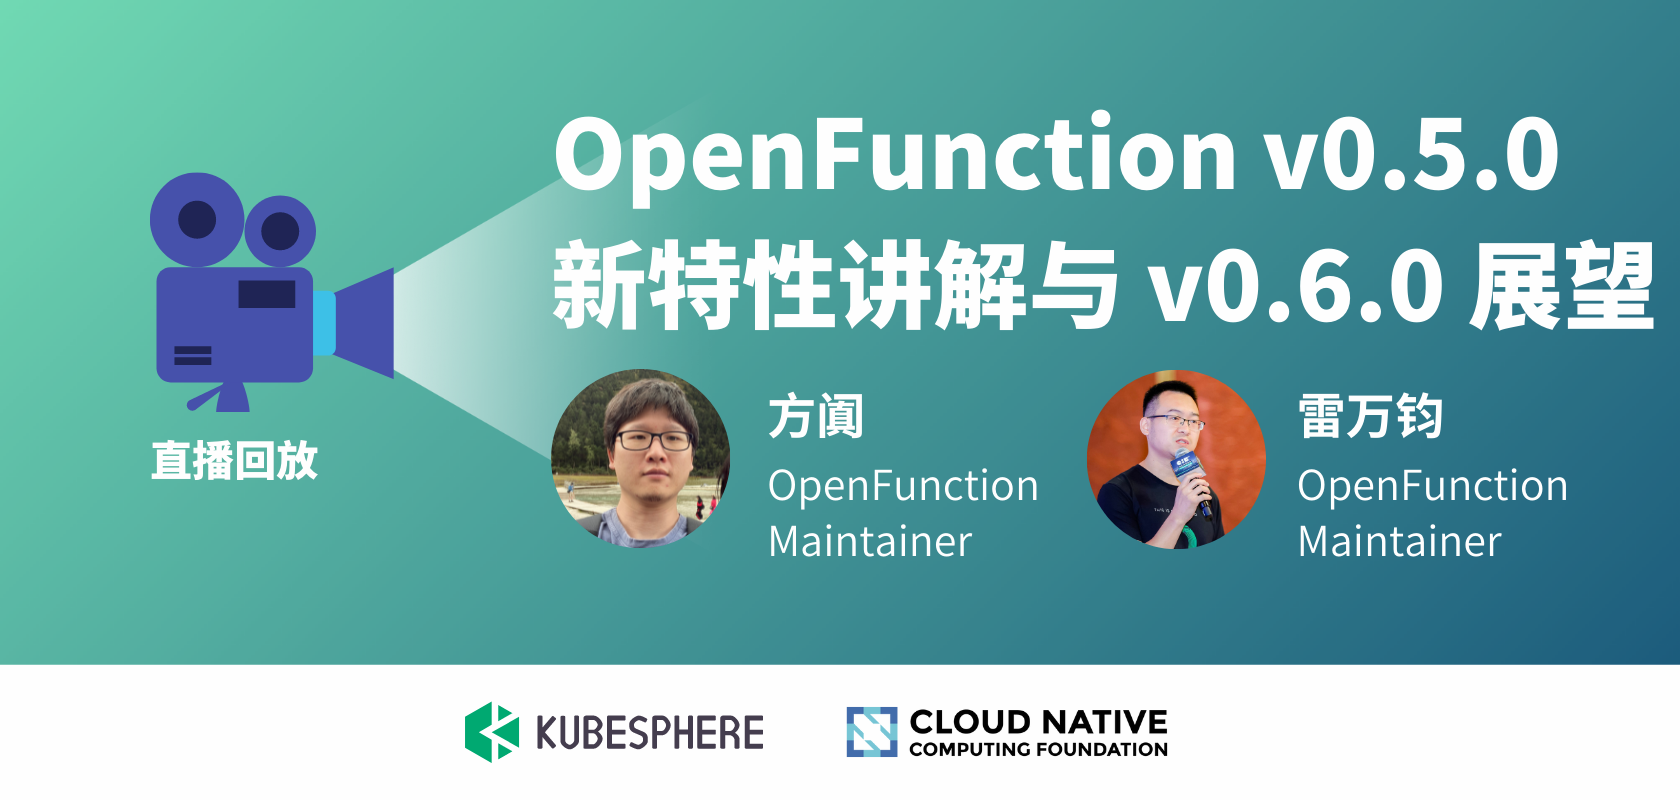
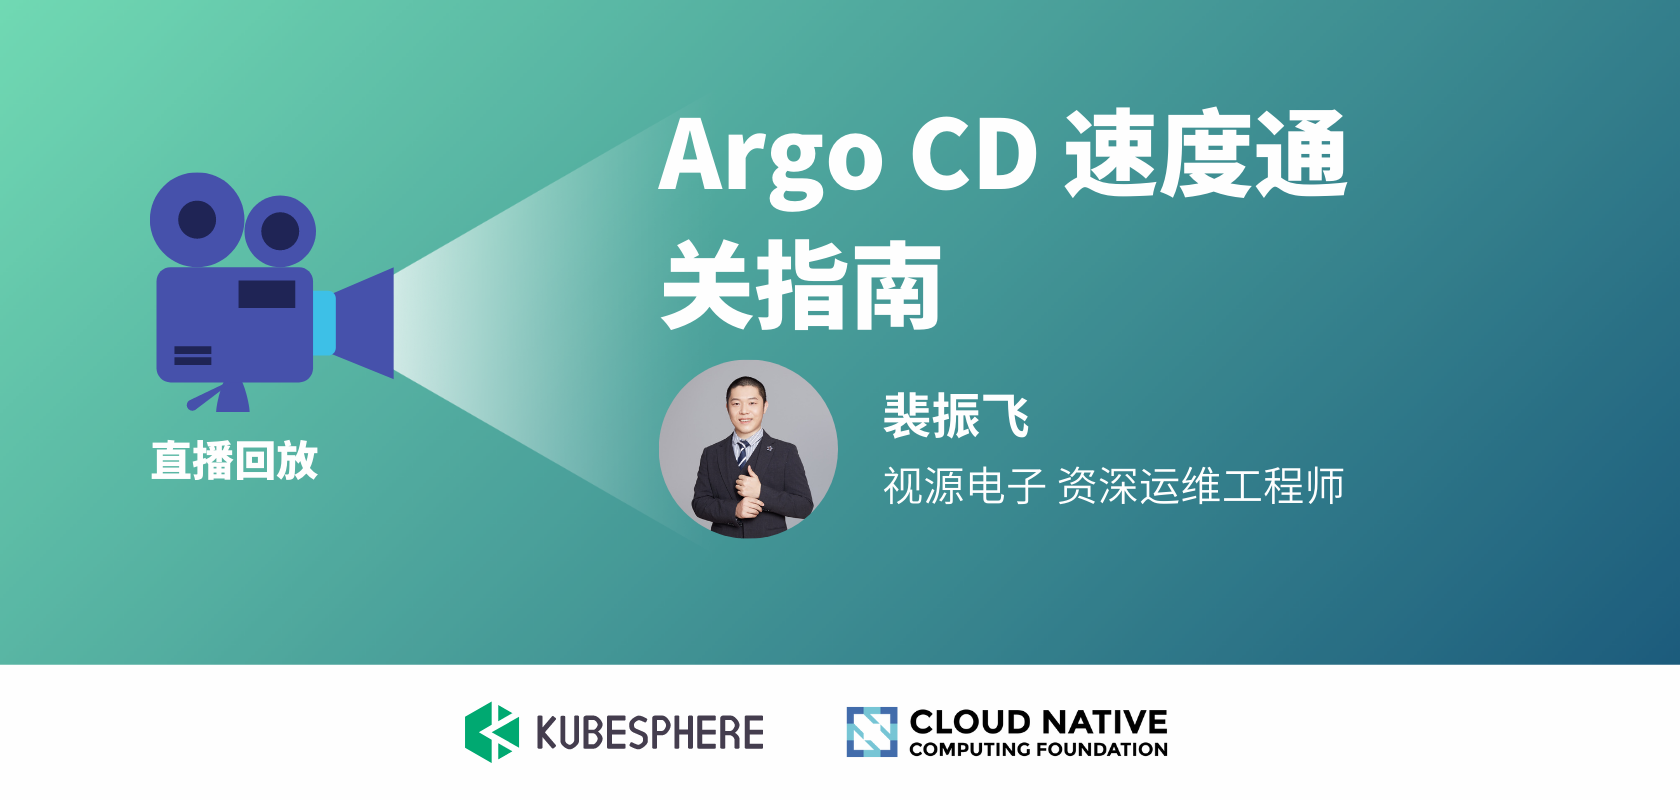
update the page of live

Changed region(s): [[0.3095, 0.125, 0.9905, 0.4375], [0.3095, 0.4375, 0.9286, 0.7188], [0.7738, 0.6562, 0.8976, 0.7188]]

diff --git a/content/zh/live/gitlab0224-live.md b/content/zh/live/gitlab0224-live.md
@@ -1,0 +1,38 @@
+---
+title: 在 KubeSphere 上安装和运行极狐GitLab
+description: 本次分享将演示如何在 KubeSphere 平台上来安装和运行极狐GitLab 实例。
+keywords: KubeSphere, Kubernetes, GitLab
+css: scss/live-detail.scss
+
+section1:
+  snapshot: 
+  videoUrl: 
+  type: iframe
+  time: 2022-02-24 20:00-21:00
+  timeIcon: /images/live/clock.svg
+  base: 线上
+  baseIcon: /images/live/base.svg
+---
+## 分享内容简介
+
+极狐GitLab 是一个一体化的 DevOps 平台，提供覆盖软件研发全生命周期的 DevOps 能力，包括项目管理，源码的管理，CI/CD，DevSecOps 等。其有自管理和 SaaS 两种服务提供方式。自管理可以有多种方式进行安装，诸如安装包，Docker，K8s 等。本次分享将演示如何在 KubeSphere 平台上来安装和运行极狐GitLab 实例。
+
+## 讲师简介
+马景贺（小马哥），极狐GitLab DevOps 技术布道师，LFAPAC 开源布道师，CDF ambassador，云原生社区管委会成员。
+
+## 分享大纲
+
+![](https://pek3b.qingstor.com/kubesphere-community/images/gitlab0224-live.png)
+
+## 直播时间
+
+2022 年 02 月 24 日 20:00-21:00
+
+## 直播地址
+
+B 站  http://live.bilibili.com/22580654
+
+
+
+
+

diff --git a/content/zh/live/_index.md b/content/zh/live/_index.md
@@ -10,22 +10,29 @@ section1:
 
 section2:
   image: /images/live/cloudnative-live-banner.png
-  url: ./openfunction0113-live/
+  url: ./argocd0217-live/
 
   notice:
-    title: Argo CD 速度通关指南
+    title: 在 KubeSphere 上安装和运行极狐GitLab
     tag: 预告
-    time: 2022 年 02 月 17 日晚 8 点
+    time: 2022 年 02 月 24 日晚 8 点
     base: 线上
-    url: ./argocd0217-live/
+    url: ./gitlab0224-live/
 
   over:
-    title: MQTT 及车联网场景应用
-    url: ./mqtt1230-live/
+    title: OpenFunction v0.5.0 新特性讲解与 v0.6.0 展望
+    url: ./openfunction0113-live/
     tag: 结束
 
 section3:
   videos:
+    - title: Argo CD 速度通关指南
+      link: ./argocd0217-live/
+      snapshot: https://pek3b.qingstor.com/kubesphere-community/images/argocd0217-live-cover.png
+      type: iframe
+      createTime: 2022.02.17
+      group: 直播回放
+
     - title: OpenFunction v0.5.0 新特性讲解与 v0.6.0 展望
       link: ./openfunction0113-live/
       snapshot: http://pek3b.qingstor.com/kubesphere-community/images/openfunction0113-live-cover.png

diff --git a/content/zh/live/argocd0217-live.md b/content/zh/live/argocd0217-live.md
@@ -6,7 +6,7 @@ css: scss/live-detail.scss
 
 section1:
   snapshot: 
-  videoUrl: 
+  videoUrl: //player.bilibili.com/player.html?aid=594178574&bvid=BV1aq4y1t7XJ&cid=511486300&page=1&high_quality=1
   type: iframe
   time: 2022-02-17 20:00-21:00
   timeIcon: /images/live/clock.svg
@@ -34,7 +34,7 @@ section1:
 
 B 站  http://live.bilibili.com/22580654
 
+## PPT 下载
 
-
-
+可扫描官网底部二维码，关注 「KubeSphere云原生」公众号，后台回复 `20220217` 即可下载 PPT。
 
